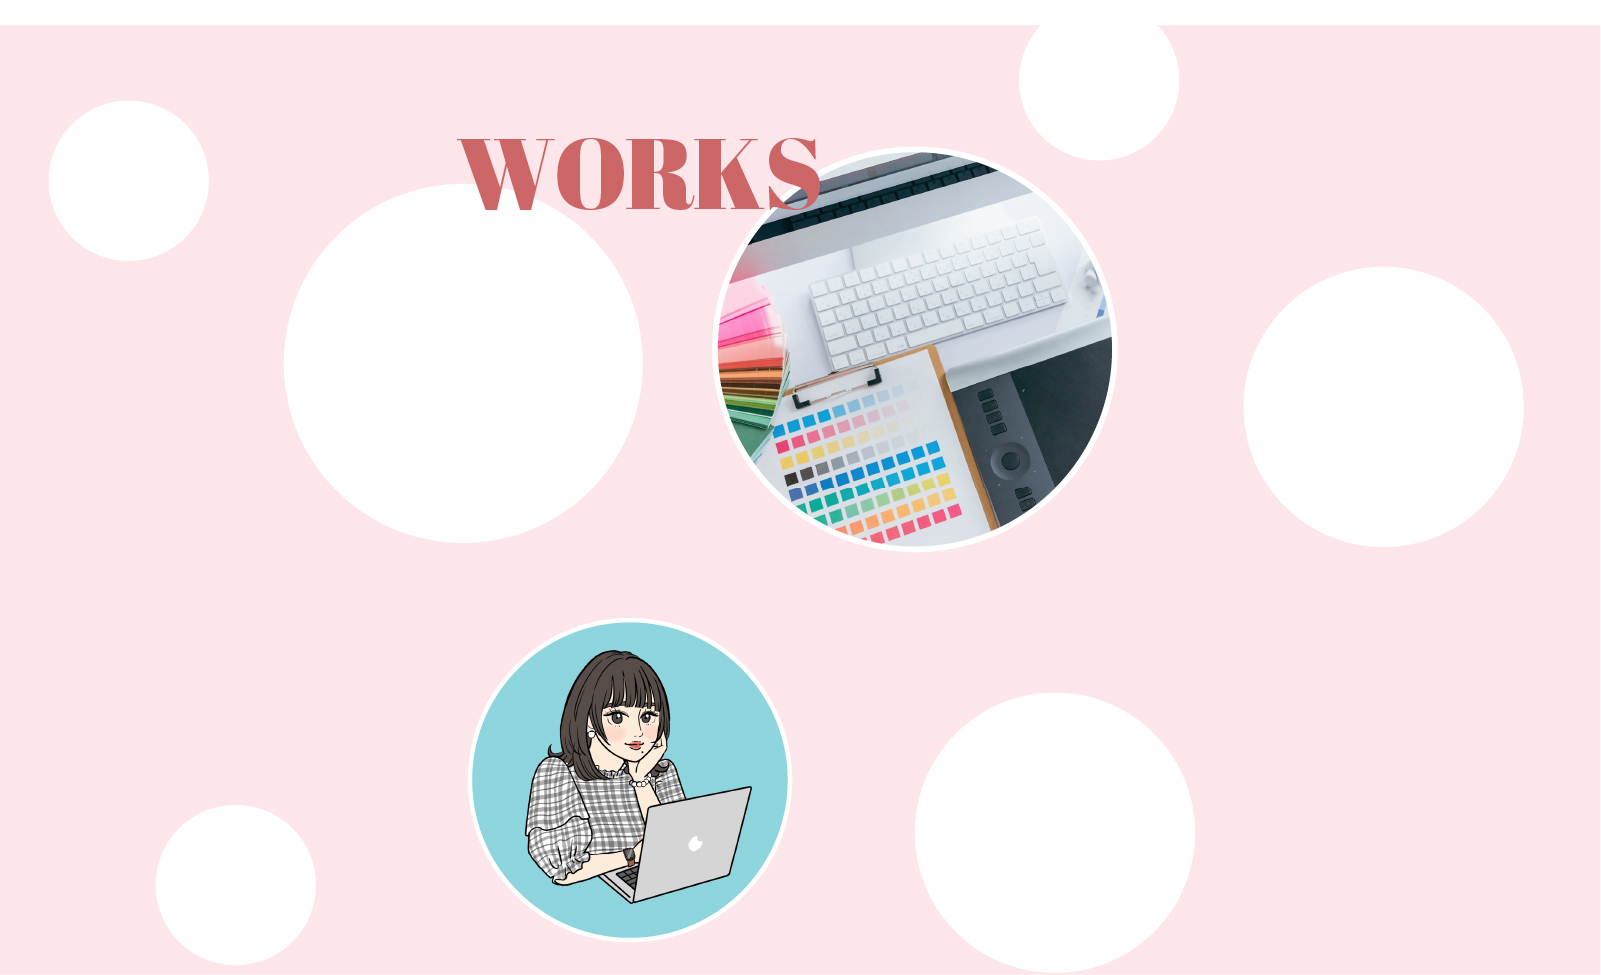
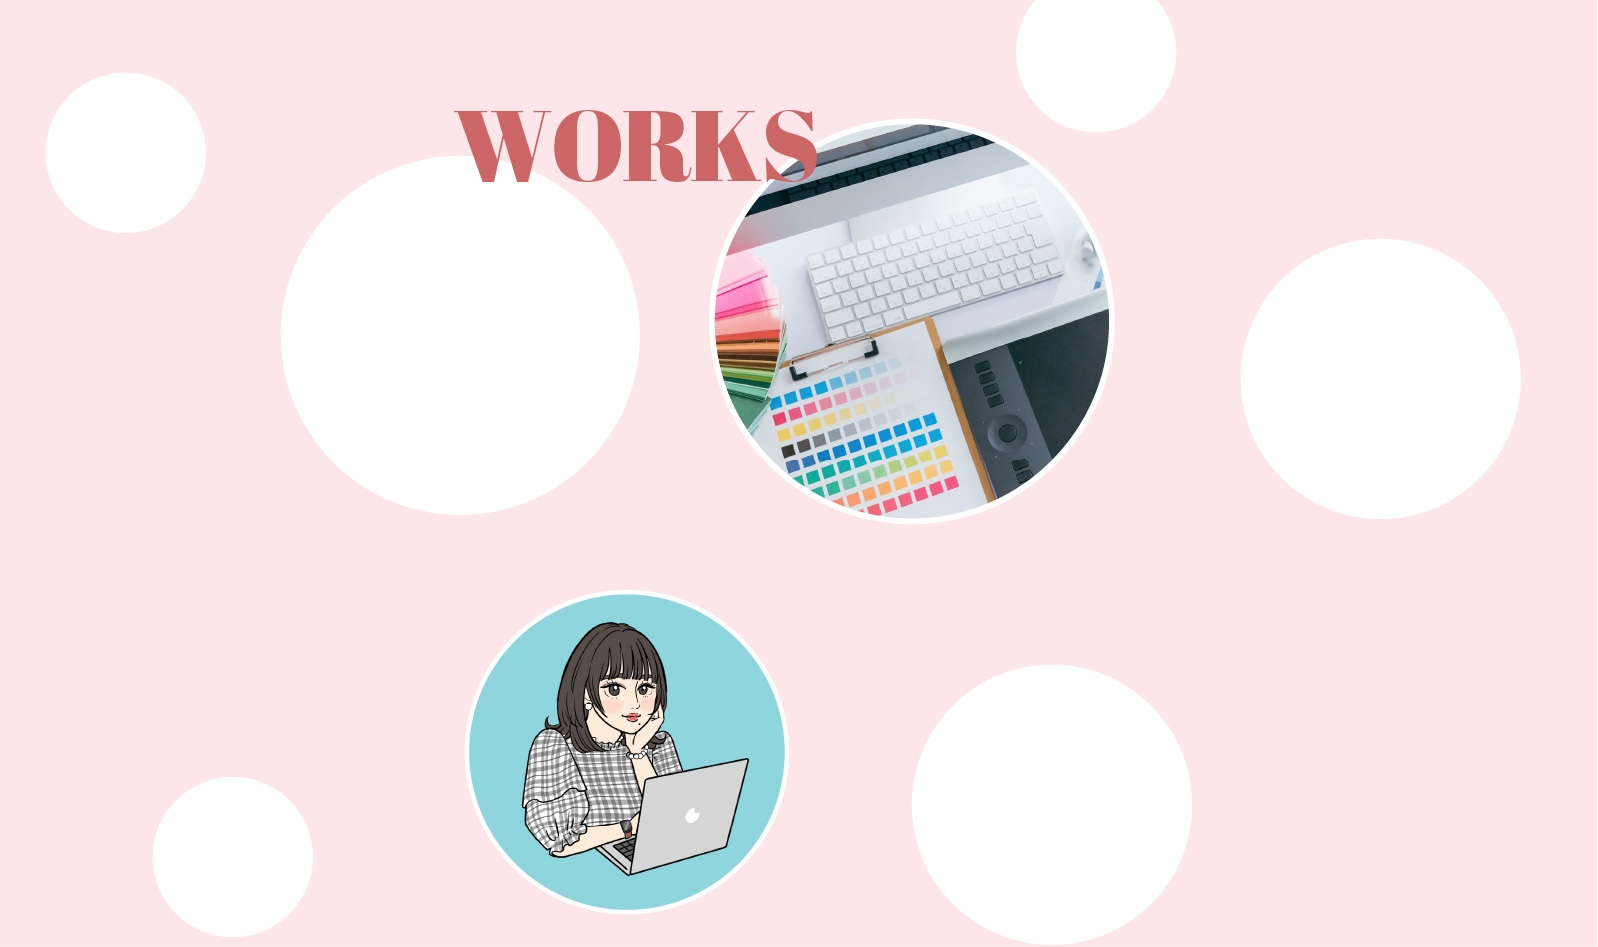
MV修正

diff --git a/Works.html b/Works.html
@@ -82,7 +82,8 @@
       <div class="MV_img">
         <div class="picture">
           <picture>
-            <source srcset="./image/works_FV_sp@2x-100.jpg" media="(max-width:481px)">
+            <source srcset="./image/works_FV_sp@2x-100.jpg" media="(max-width:491px)">
+            <source srcset="./image/works_FV_800px@2x-100.jpg" media="(max-width:800px)">
             <img src="image/Works_FV_PC@2x-100.jpg" alt="">
           </picture>
         </div>
